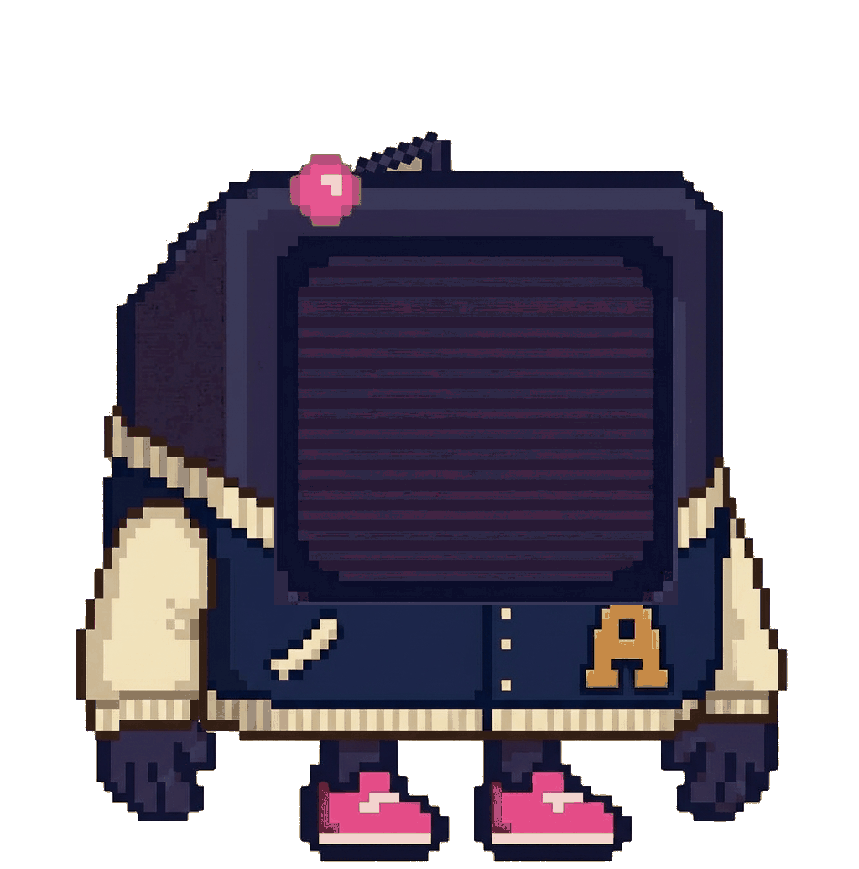
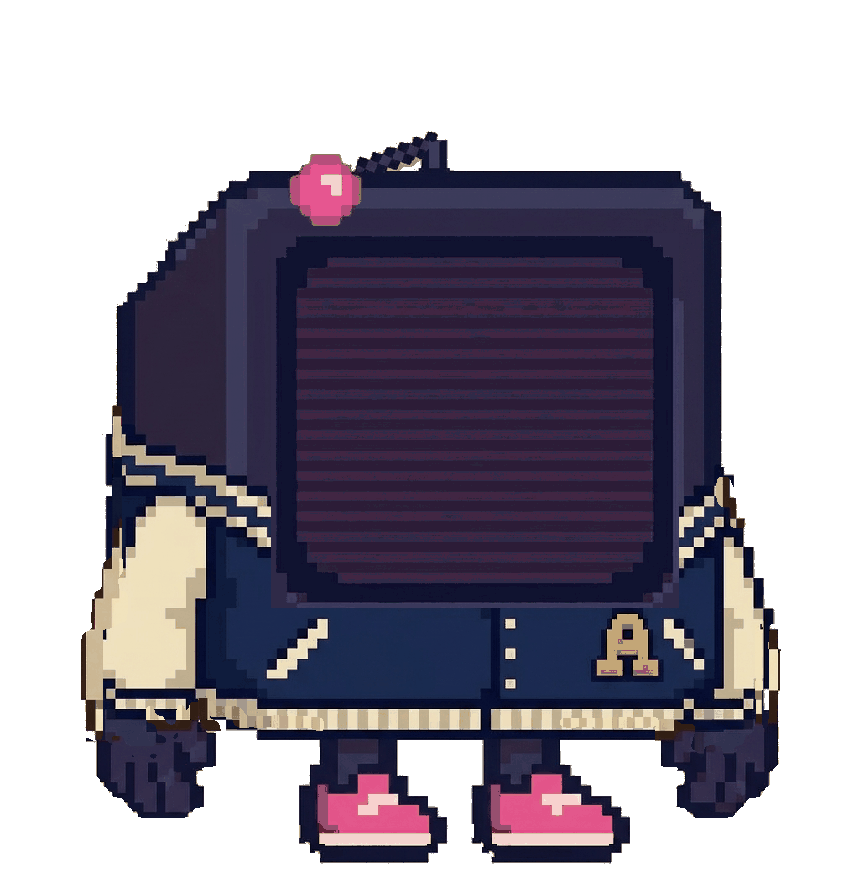
fix(arcademy): EMI's wardrobe rides over her face by rule (and the bezel art is measured gone) (#404)
* fix(arcademy): the face canvas sits under EMI's wardrobe by rule, not by DOM order

Owner, 2026-08-30: "the face screen should never be on top of the costumes or
the skins. The skins are the topmost thing on the composition."

`.emi-screen` was z-auto, so the only thing keeping the face under `.emi-over`
(z2) was that widget.js happens to append the overlay after the canvas. An
explicit `z-index: 0` makes the law a rule: garment over glass, always, whatever
order the nodes are minted in.

Claude-Session: https://claude.ai/code/session_01YU23oXbzvGrFVxZeL5dM4q

* fix(arcademy): a wardrobe swap may not flash the overlay sheet she took off

The overlay path has only ever run for ONE sheet (swim), and one place in it was
written for exactly that. `paintOver` assigned the new `src` and un-hid the node
in the same statement, and an <img> keeps painting the frame it has already
decoded until the new one lands - invisible while three of the four wardrobes
have nothing to flash, the OLD outfit's prop on her face for a frame or two the
day a second sheet ships.

A change of SET now stands the layer down until the new frame reports itself
decoded (a `load` listener beside the existing `error` one brings it back, and
ignores a url she has already moved off). A pose step inside one set never
blinks: `preloadOver` already holds its ten frames, and `over.complete` short
-circuits a cached swap.

Everything else in `armOver` was already outfit-agnostic - every verdict is keyed
[…]

diff --git a/ConditioningControlPanel/Resources/web/arcademy/emi/widget.js b/ConditioningControlPanel/Resources/web/arcademy/emi/widget.js
@@ -989,9 +989,15 @@ export function createWidget({ root, face, chains, fx, vox: vox0, store, toast, 
    *
    * ONE PROBE PER OUTFIT AND THE ANSWER IS FINAL, exactly like the varsity
    * jacket: an outfit with no overlay sheet (labcoat, cheer, varsity, the
-   * standard set) costs one 404 for the sitting and nothing after it. */
+   * standard set) costs one 404 for the sitting and nothing after it.
+   *
+   * AND IT IS NOT A ONE-SHEET PATH, whatever the file list says today. Every
+   * verdict below is keyed by the PROBE URL, so four sheets can be armed, cached
+   * and refused independently - the only thing that was ever written for one
+   * wardrobe is the node's decoded frame, and `paintOver` now says so out loud. */
   let overSet = null;                       // the live overlay map, or null
   let overSrcNow = '';                      // what is actually on the node
+  let overSetNow = null;                    // ...and the SET that url came out of
   const overState = Object.create(null);    // probe url -> 'probing'|'on'|'failed'
   const overWant = Object.create(null);     // ...and the map it answers for
 
@@ -1005,10 +1011,28 @@ export function createWidget({ root, face, chains, fx, vox: vox0, store, toast, 
   /** Lay the overlay for the pose that is up, or take it off. */
   function paintOver() {
     const u = overUrl(bodyFrame);
-    if (!u) { over.hidden = true; return; }
+    if (!u) { over.hidden = true; overSetNow = null; return; }
     if (u !== overSrcNow) {
+      /* A WARDROBE SWAP MAY NOT FLASH THE SHEET SHE JUST TOOK OFF. An <img>
+       * keeps painting the frame it has already decoded until the new `src`
+       * decodes, and the line below un-hides the layer in the same statement -
+       * so going from one overlay sheet to another paints the OLD outfit's
+       * glass art over her face for a frame or two. That was unreachable while
+       * exactly ONE sheet existed (the other three had nothing to flash) and is
+       * a stranger's goggles the day a second one ships.
+       *
+       * A POSE STEP IS NOT A SWAP. `preloadOver` has all ten frames of the sheet
+       * she is wearing in the cache, so walking the sway inside one set decodes
+       * on the spot and must never blink; only a change of SET stands the layer
+       * down, and only until the new frame reports itself decoded. */
+      const swapped = overSet !== overSetNow;
       overSrcNow = u;
+      overSetNow = overSet;
       try { over.src = u; } catch (e) { /* noop */ }
+      if (swapped && !(over.complete && over.naturalWidth > 0)) {
+        over.hidden = true;                 // the `load` listener brings it back
+        return;
+      }
     }
     over.hidden = false;
   }
@@ -1075,8 +1099,18 @@ export function createWidget({ root, face, chains, fx, vox: vox0, store, toast, 
       overState[overSet.idle] = 'failed';
       overSet = null;
       overSrcNow = '';
+      overSetNow = null;
       over.hidden = true;
       say('emi: an outfit overlay frame is missing - the layer stands down');
+    });
+    /* THE OTHER HALF OF THE SWAP GUARD (see `paintOver`). The layer comes back
+     * up when the sheet she is wearing NOW has actually decoded - a `load` for
+     * a url she has already moved off is somebody else's frame and is ignored. */
+    over.addEventListener('load', () => {
+      if (!overSet || !overSrcNow) return;
+      const on = over.getAttribute ? over.getAttribute('src') : overSrcNow;
+      if (on !== overSrcNow) return;
+      over.hidden = false;
     });
   }
 

diff --git a/ConditioningControlPanel/Resources/web/arcademy/emi/emi.css b/ConditioningControlPanel/Resources/web/arcademy/emi/emi.css
@@ -54,6 +54,15 @@
 }
 
 /* The glass. Locked rect, as a fraction of the body image. */
+/* THE FACE IS THE FLOOR OF THE STACK, NOT ITS CEILING (owner, 2026-08-30: "the
+ * face screen should never be on top of the costumes or the skins"). What an
+ * outfit wears on her tube - a collar, a pom-pom, goggles - is worn IN FRONT of
+ * the glass in the world, so it is worn in front of it here: `.emi-over`
+ * (widget.css, z2) is the topmost thing in her composition bar her own hands
+ * and her words. This `z-index: 0` is what makes that a RULE rather than a
+ * coincidence of `appendChild` order - without it the canvas is z-auto and the
+ * only thing keeping it under the garment is that widget.js happens to append
+ * `.emi-over` after it. Never raise it. */
 .emi-screen {
   position: absolute;
   left: 34.46%;
@@ -64,6 +73,7 @@
   image-rendering: crisp-edges;
   display: block;
   pointer-events: none;
+  z-index: 0;
 }
 
 /* THE OFF CHANNELS' GLASS (W3). A SECOND canvas on the EXACT rect above, laid

diff --git a/ConditioningControlPanel/Resources/web/arcademy/CLAUDE.md b/ConditioningControlPanel/Resources/web/arcademy/CLAUDE.md
@@ -3338,6 +3338,41 @@ and it is not a third gate** - see trap 99, `init.devAnnex`.
     lower the trickster's rate on a class with no cameo. `freeze()` tears the cameo down
     ITSELF before `cam('pause')`, or `onDone('cancel')` would deal on top of `thaw()`'s re-deal.
 
+142. **THE FACE IS THE FLOOR OF HER STACK, NOT ITS CEILING - AND THE OUTFIT ART INSIDE THE
+    BEZEL IS GONE, NOT BURIED (owner, 2026-08-30: "the coat behind the screen, it should be
+    over it").** Trap 137 ruled that an outfit which draws on the glass needs an
+    `over-<pose>.png`. This is how far that actually goes, measured. `install_outfits.py` did
+    not paste back the GLASS rect - it pasted back the screen AND THE BEZEL, a block running
+    about x271..679, y231..608 of the 859x869 canvas (per pose: `body` 272..679/231..607,
+    `idle` and the four sways 271..679/233..608, `pet` and `sad` 274..678/232..605, `shock`
+    274..677/233..604, `smug` 273..677/232..605). Inside it ALL FORTY shipped outfit frames -
+    varsity, labcoat, cheer, swim, ten poses each - are BYTE-IDENTICAL to `art/emi/body-*.png`,
+    and they already were at the install commit (`1ccb2012a`), so there is nothing to recover
+    from the sprite and no un-pasted original anywhere in history. Measured on labcoat
+    `body-idle`: the coat is a solid 72px white column at x=270 and again at x=679, and
+    EXACTLY ZERO white pixels across x271..678 - a shape cut dead flat at both edges of the
+    block. What the owner is seeing is a collar that was ERASED, not a collar that lost a
+    z-fight, and no amount of layering brings it back.
+    THE RULE HAS TWO HALVES. (a) The wardrobe is the topmost thing in her composition bar her
+    own hands (`.emi-fx`) and her words: `.emi-over` is z2, the takeover channels (`.emi-glass`)
+    are z1, and `.emi-screen` now carries an explicit `z-index: 0` so the FACE CANVAS SITS
+    UNDER THE GARMENT BY RULE rather than by `appendChild` order. Never raise the canvas, and
+    never cure a buried prop by re-ordering the DOM. (b) The only road back for the other three
+    sheets is NEW ART: one `over-<pose>.png` per pose, same 859x869 canvas, transparent
+    everywhere except the part of the garment that falls inside that block. The swim sheets are
+    the reference - RGBA, 10-12KB, and 100% of their opaque pixels land inside it. Do not trace
+    it out of the sprite; there is nothing there to trace.
+    AND THE OVERLAY PATH IS NOT A SWIM PATH, though swim is the only sheet that has ever run
+    it. Every verdict in `armOver` is keyed by the PROBE URL, so four wardrobes arm, cache and
+    refuse independently - but `paintOver` used to assign the new `src` and un-hide the node in
+    the same statement, and an `<img>` keeps painting the frame it has already decoded. Harmless
+    with one sheet in the bundle; the OLD outfit's prop on her face for a frame or two the day a
+    second one ships. A change of SET now stands the layer down until the new frame reports
+    itself decoded, while a pose step inside one set never blinks (`preloadOver` already holds
+    its ten frames). Proved in a real browser, because a DOM double cannot see a composite: the
+    swim goggles render as the GARMENT over a `0_0` face, and the swim bytes served at
+    labcoat's `over-` url light a SECOND outfit's layer end to end.
+
 ## 5. The game module contract (short version)
 
 ```js
